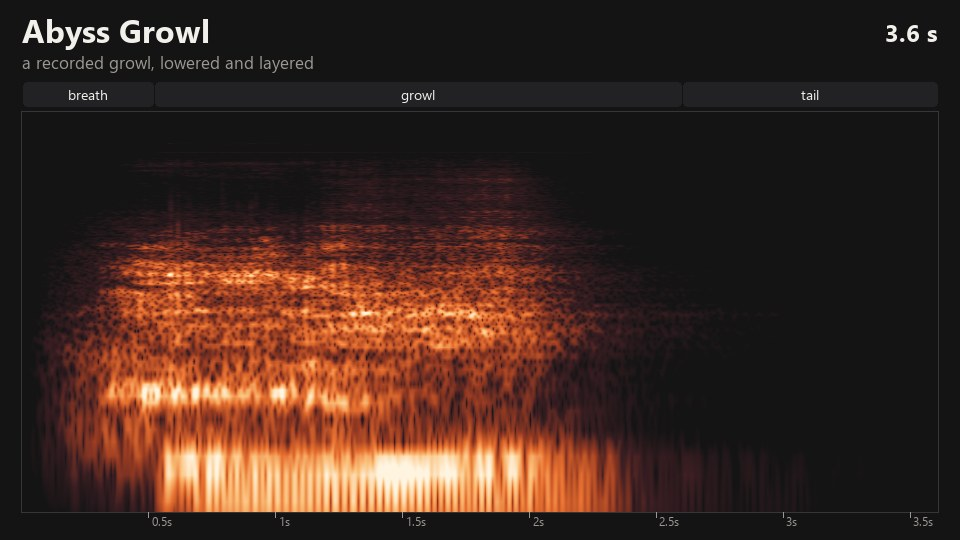
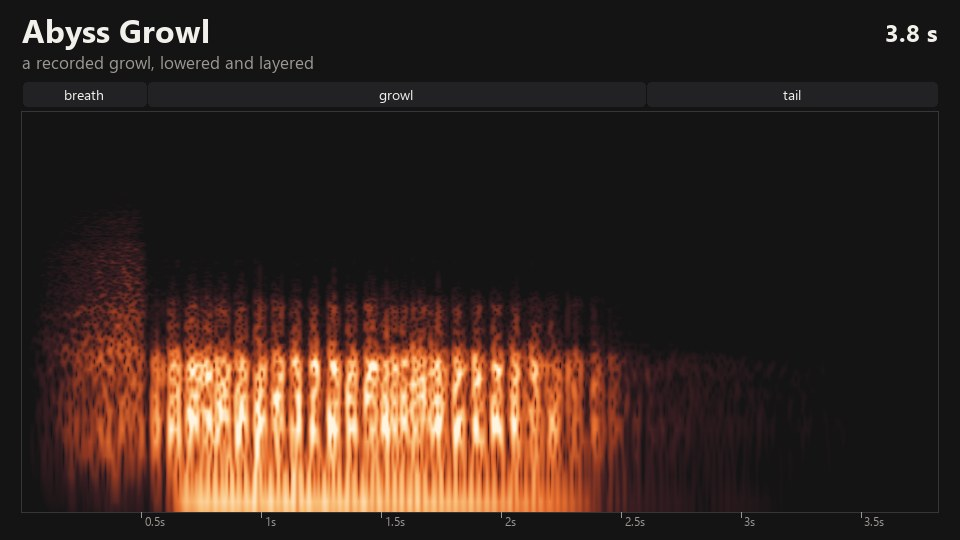
Update the scene video and two example sounds
The scene's Chain Seal now plays a gong recording whose author describes
how it was made, and Abyss Growl is built from fewer recordings. The
Listen section plays the new video and the two cards show the new sounds.

Generated with Claude Code

diff --git a/README.md b/README.md
@@ -31,7 +31,7 @@ A short scene from an original game and six sounds. An agent built each sound wi
 
 **Turn the sound on.** *The Rain Shrine*, 0:40: through the rain and an iron gate, something in the dark, a seal and a blade, a relic, and back out into the rain. [MP3](https://github.com/owoevan-dev/sfx-skill/releases/download/examples-1/the-rain-shrine.mp3)
 
-https://github.com/user-attachments/assets/b1f86b78-aa98-479a-9723-d7fdb83895d8
+https://github.com/user-attachments/assets/23ff56ba-839f-43e6-ab21-d8557511ab95
 
 <table>
 <tr>
